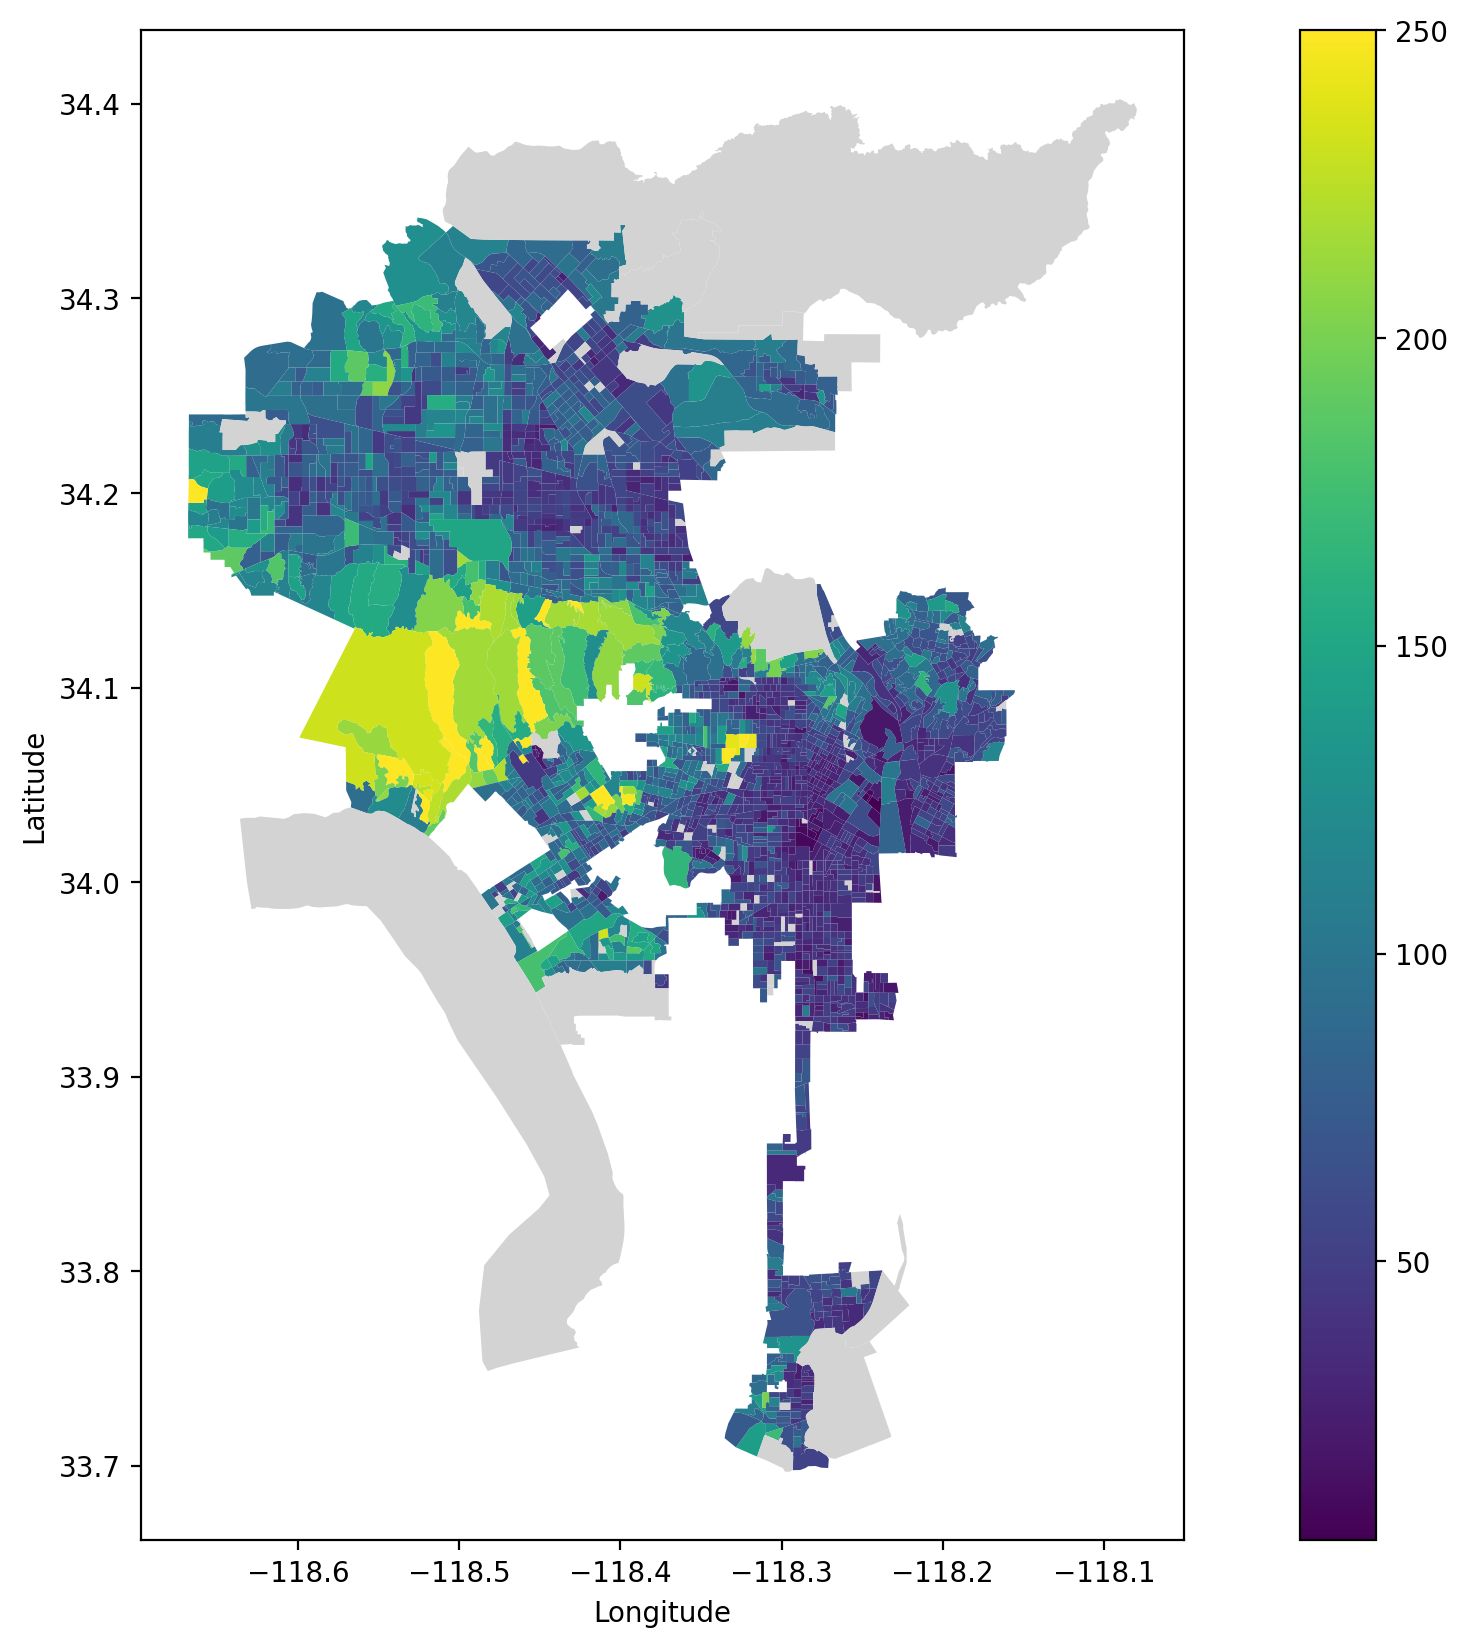
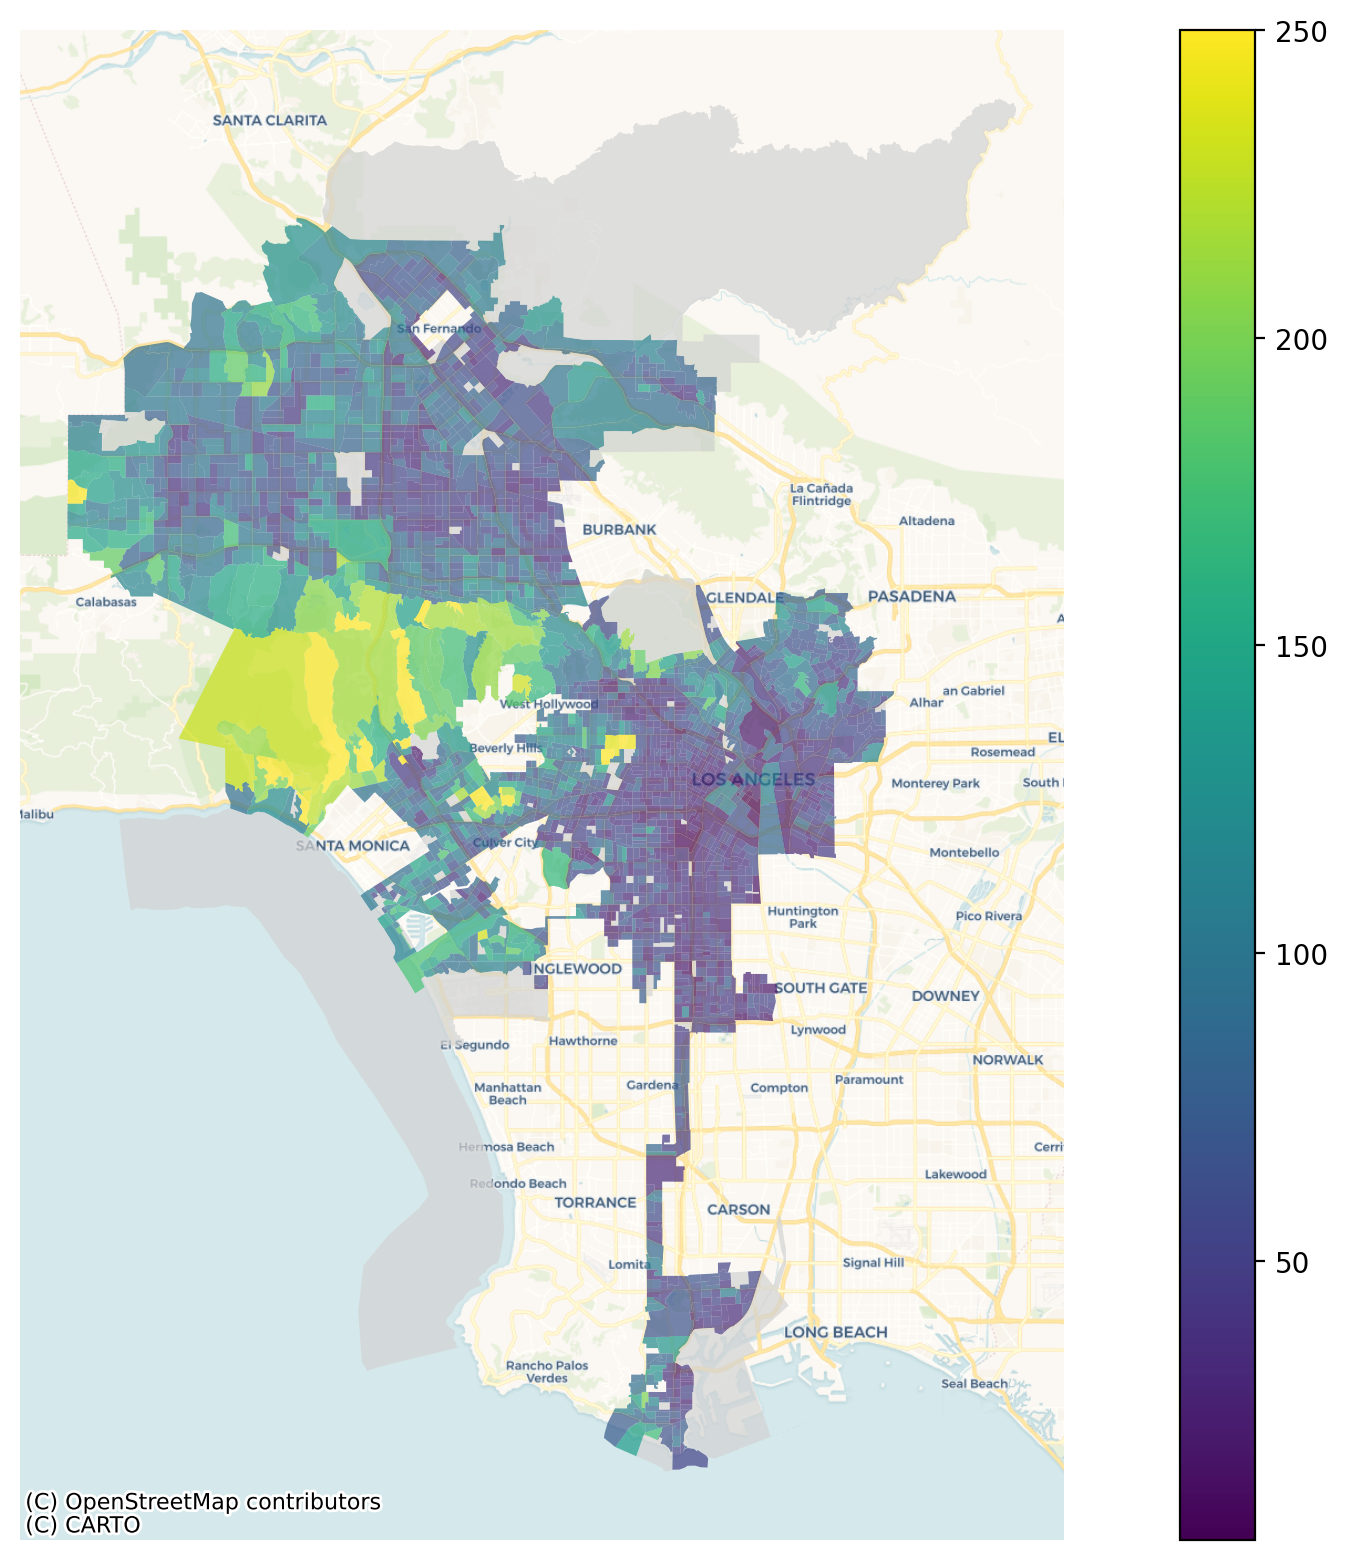
update visualizations

diff --git a/models.py b/models.py
@@ -7,6 +7,7 @@ from sklearn.svm import SVR
 from sklearn.model_selection import train_test_split
 from data.acs_load import acs_load
 import matplotlib.pyplot as plt
+import contextily as ctx
 
 
 def load_data(city="Los Angeles", split=False):
@@ -57,7 +58,6 @@ if __name__ == "__main__":
     geometries, X, y = load_data(city)
 
     # Model objects
-    ols = LinearRegression()
     svr = SVR(C=20, gamma=0.0001)
 
     # Train-test split
@@ -68,19 +68,11 @@ if __name__ == "__main__":
     test_index = X_test[:, -1]
     X_test = X_test[:, :-1]
 
-    # Technical regressors
-    X_train = np.concatenate((X_train, X_train**2), axis=1)
-    X_test = np.concatenate((X_test, X_test**2), axis=1)
-
     # Normalize data
     scaler = MinMaxScaler(feature_range=(0, 1))
     X_train = scaler.fit_transform(X_train)
     X_test = scaler.transform(X_test)
 
-    # Fit OLS
-    ols.fit(X_train, y_train)
-    print(ols.score(X_train, y_train))
-    print(ols.score(X_test, y_test))
     # Fit SVM
     svr.fit(X_train, y_train)
     print(svr.score(X_train, y_train))
@@ -93,37 +85,70 @@ if __name__ == "__main__":
                                                 how="left",
                                                 left_index=True,
                                                 right_index=True)
+    # Conver geography to Web Mercator (EPSG 3857)
+    comparison = comparison.to_crs(epsg=3857)
     # Plot predictions vs actual
-    fig, axes = plt.subplots(1, 2, sharex=True, sharey=True, dpi=200)
+    fig, axes = plt.subplots(1, 2, sharex=True, sharey=True, dpi=200,
+                             figsize=(15, 10))
     comparison.plot(column="log_B19013001", ax=axes[0], cmap="viridis",
-                    missing_kwds={"color": "lightgrey"},
+                    missing_kwds={"color": "lightgrey"}, alpha=0.7,
                     vmin=8.44, vmax=12.5)
+    ctx.add_basemap(ax=axes[0], source=ctx.providers.CartoDB.Voyager)
     comparison.plot(column="predictions", ax=axes[1], cmap="viridis",
-                    missing_kwds={"color": "lightgrey"},
+                    missing_kwds={"color": "lightgrey"}, alpha=0.7,
                     vmin=8.44, vmax=12.5)
+    ctx.add_basemap(ax=axes[1], source=ctx.providers.CartoDB.Voyager)
     cols = axes[0].collections[0]
     colbar = fig.colorbar(cols, ax=axes, shrink=0.6)
     fig.patch.set_visible(False)
     axes[0].axis("off")
     axes[1].axis("off")
-    axes[0].set_title("Actual Income")
+    axes[0].set_title("True Income")
     axes[1].set_title("""Predicted Income $(R^2 = 0.48)$""")
     # plt.savefig("./model visualizations/predictions_map.png",
     #             bbox_inches="tight")
     plt.show()
 
+    # Scatter test set predictions
     plt.figure(dpi=200)
     plt.scatter(comparison["predictions"], comparison["log_B19013001"],
                 s=2, color="#4A89F3")
     plt.xlabel("Predicted Log Income")
-    plt.ylabel("Actual Log Income")
+    plt.ylabel("True Log Income")
     plt.xlim(9, 13)
     plt.ylim(8, 13)
     plt.axline(xy1=(0, 0), slope=1, linestyle="--", color="#EA4335")
-    plt.savefig("./model visualizations/predictions_scatter.png",
-                bbox_inches="tight")
+    # plt.savefig("./model visualizations/predictions_scatter.png",
+    #             bbox_inches="tight")
+    plt.show()
+
+    # Scatter train set predictions
+    plt.figure(dpi=200)
+    plt.scatter(svr.predict(X_train), y_train,
+                s=2, color="#4A89F3")
+    plt.xlabel("Predicted Log Income")
+    plt.ylabel("True Log Income")
+    plt.xlim(9, 13)
+    plt.ylim(8, 13)
+    plt.axline(xy1=(0, 0), slope=1, linestyle="--", color="#EA4335")
+    # plt.savefig("./model visualizations/predictions_scatter.png",
+    #             bbox_inches="tight")
     plt.show()
 
     # Test a model on New York
     geometries, X, y = load_data(city="New York")
-    print(svr.score(X[:, :-1], y))
+    X = X[:, :-1]
+    X = scaler.fit_transform(X)
+    print(svr.score(X, y))
+    # Scatter New York predictions
+    plt.figure(dpi=200)
+    plt.scatter(svr.predict(X), y,
+                s=2, color="#4A89F3")
+    plt.xlabel("Predicted Log Income")
+    plt.ylabel("True Log Income")
+    plt.xlim(9, 13)
+    plt.ylim(8, 13)
+    plt.axline(xy1=(0, 0), slope=1, linestyle="--", color="#EA4335")
+    # plt.savefig("./model visualizations/predictions_scatter.png",
+    #             bbox_inches="tight")
+    plt.show()

diff --git a/data/acs_explore.py b/data/acs_explore.py
@@ -3,6 +3,7 @@ import numpy as np
 import cv2
 import random
 import matplotlib.pyplot as plt
+import contextily as ctx
 from data.acs_load import acs_load
 
 random.seed(123)
@@ -87,21 +88,26 @@ def income_histogram(city="Los Angeles", log=False, save=False):
 
 
 def income_choropleth(city="Los Angeles", log=False, save=False):
+    mercator = acs[city].to_crs(epsg=3857)
     """Maps median household income by block group."""
     fig, ax = plt.subplots(figsize=(15, 10))
     # alternative cmap: "RdYlGn_r"
     if log is True:
-        acs[city].plot(column="log_B19013001", ax=ax, cmap="plasma",
-                       legend=True, missing_kwds={"color": "lightgrey"})
+        mercator.plot(column="log_B19013001", ax=ax, cmap="plasma",
+                      legend=True, missing_kwds={"color": "lightgrey"},
+                      alpha=0.7)
+        ctx.add_basemap(ax=ax, source=ctx.providers.CartoDB.Voyager)
         # ax.set_title(f"Household Income in {city} (Log Dollars)")
 
     else:
-        acs[city].plot(column="B19013001_thousand", ax=ax, cmap="viridis",
-                       legend=True, missing_kwds={"color": "lightgrey"})
+        mercator.plot(column="B19013001_thousand", ax=ax, cmap="viridis",
+                      legend=True, missing_kwds={"color": "lightgrey"},
+                      alpha=0.7)
+        ctx.add_basemap(ax=ax, source=ctx.providers.CartoDB.Voyager)
         # ax.set_title(f"Household Income in {city} (Thousands of Dollars)")
     ax.set_xlabel("Longitude")
     ax.set_ylabel("Latitude")
-    # ax.set_axis_off()
+    ax.set_axis_off()
     if save is True:
         plt.savefig(f"data/visualizations/income_choro_{city}.png",
                     dpi=200,
